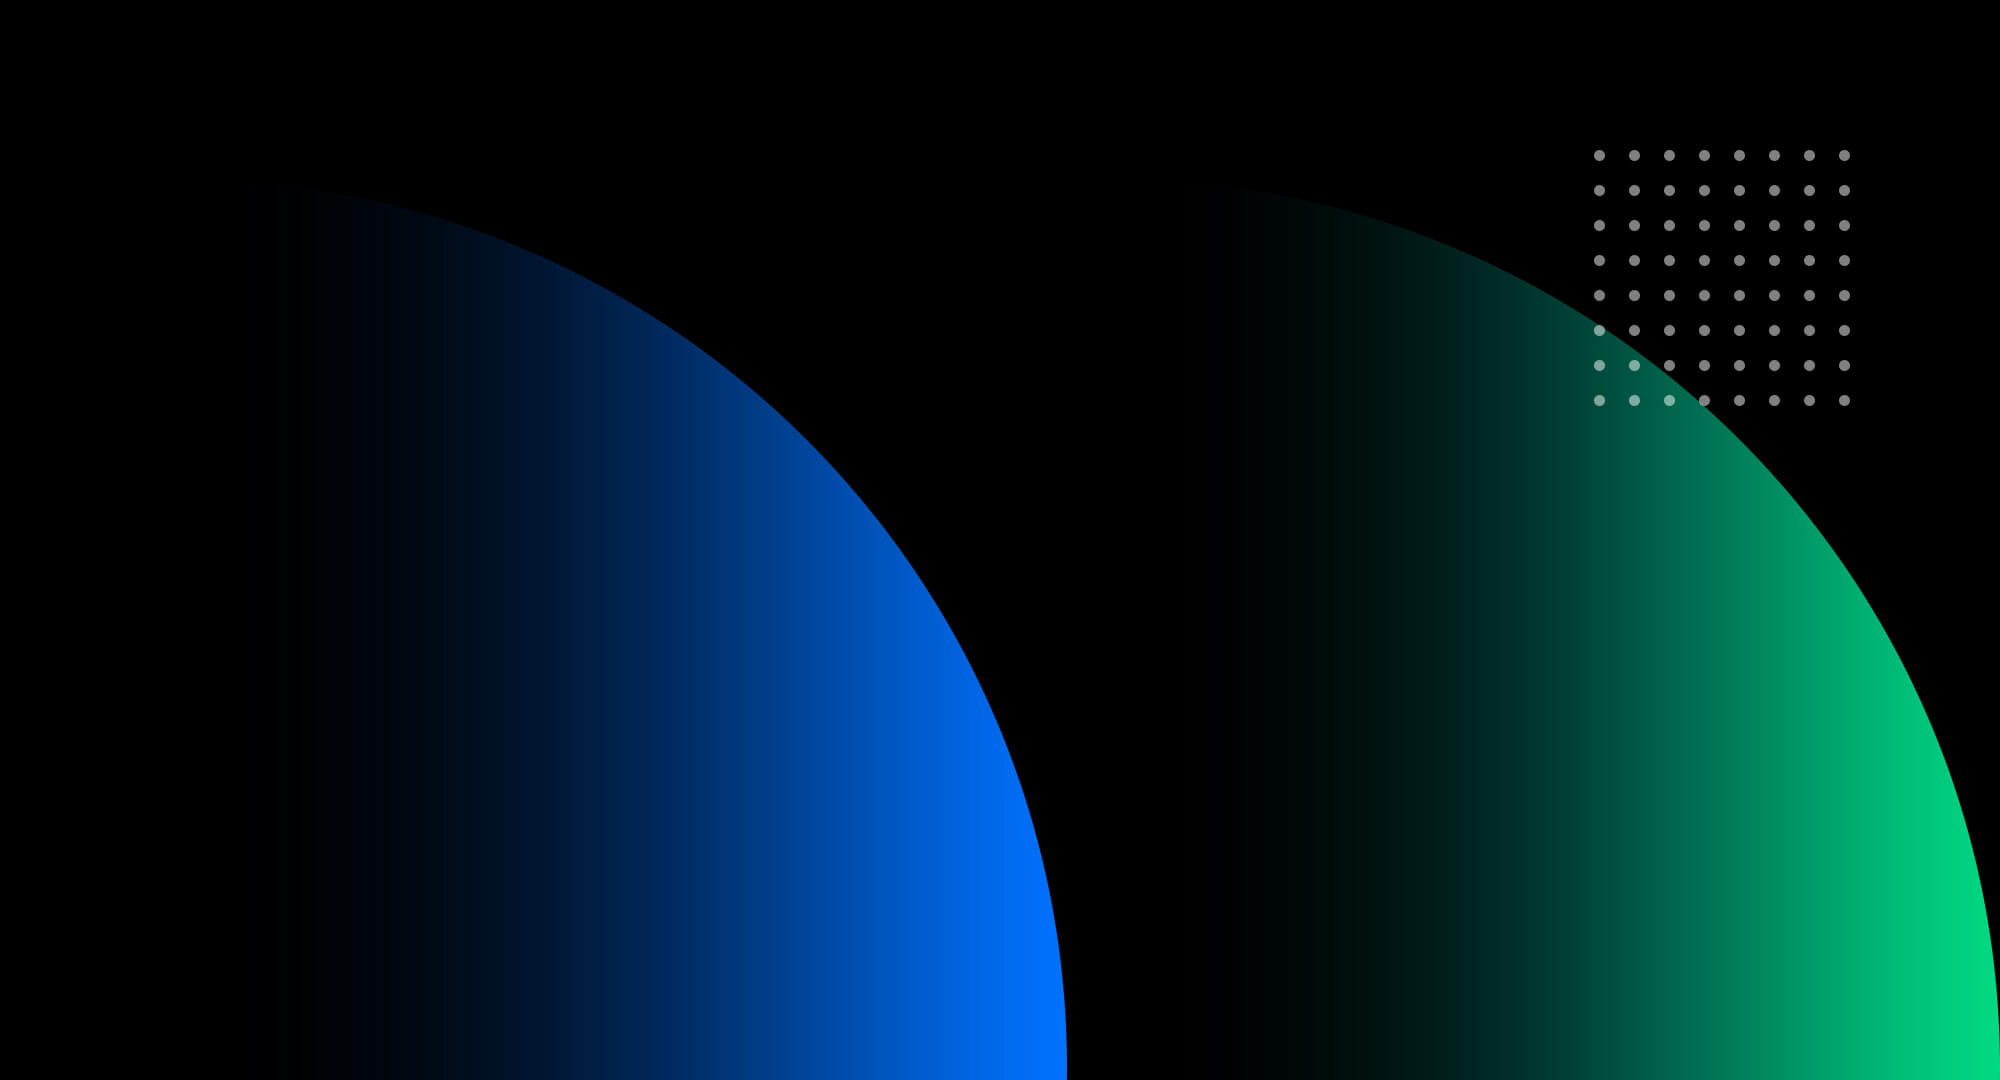
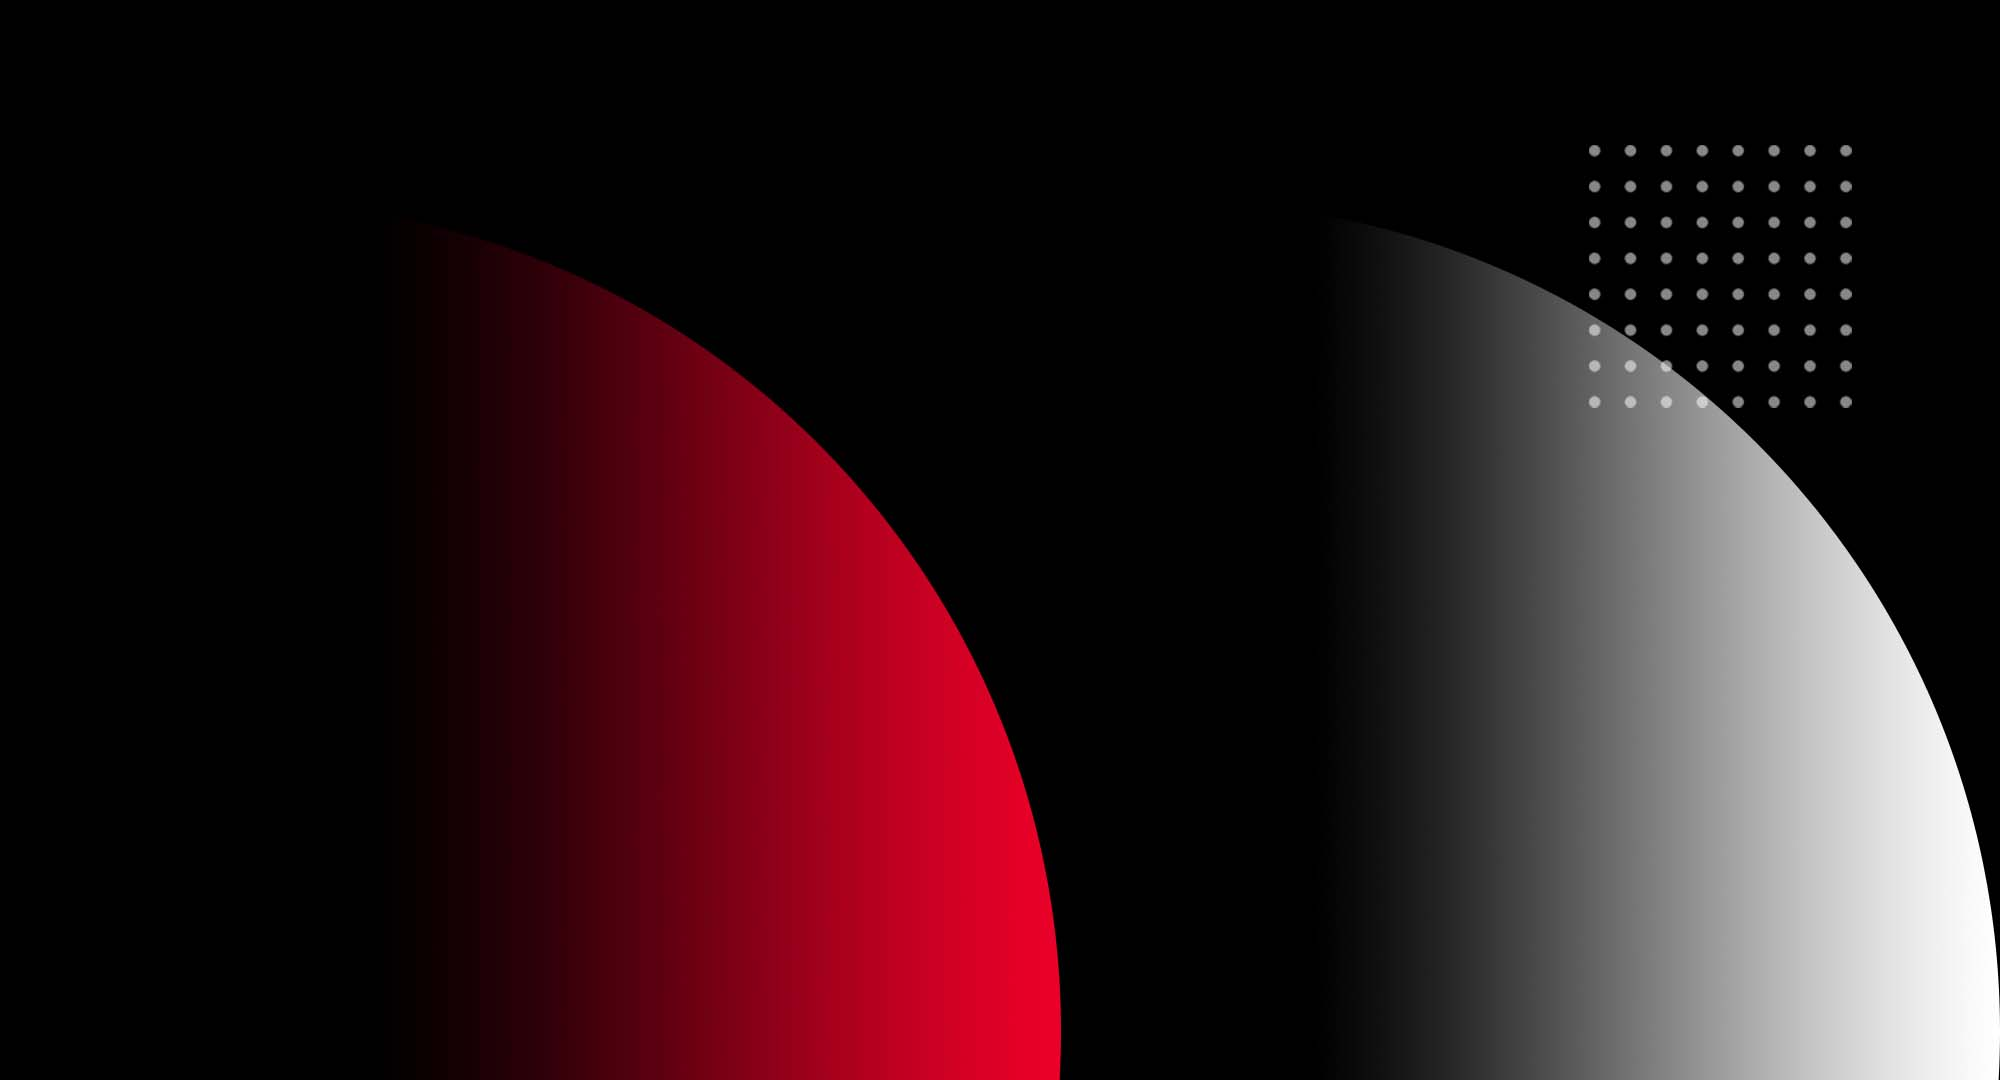
images and styles for changing colors updated

diff --git a/css/colors/blue-teal.css b/css/colors/blue-teal.css
@@ -1,6 +1,6 @@
 :root {
-  --primary-color: red;
-  --primary-color-rgb: 255, 0, 0;
-  --secondary-color: red;
-  --secondary-color-rgb: 255, 0, 0;
+  --primary-color: #EB0028.;
+  --primary-color-rgb: 235, 0, 40;
+  --secondary-color: #EB0028.;
+  --secondary-color-rgb: 235, 0, 40;
 }

diff --git a/css/colors/blue.css b/css/colors/blue.css
@@ -1,6 +1,6 @@
 :root {
-  --primary-color: red;
-  --primary-color-rgb: 255, 0, 0;
-  --secondary-color: red;
-  --secondary-color-rgb: 255, 0, 0;
+  --primary-color: #EB0028.;
+  --primary-color-rgb: 235, 0, 40;
+  --secondary-color: #EB0028.;
+  --secondary-color-rgb: 235, 0, 40;
 }
